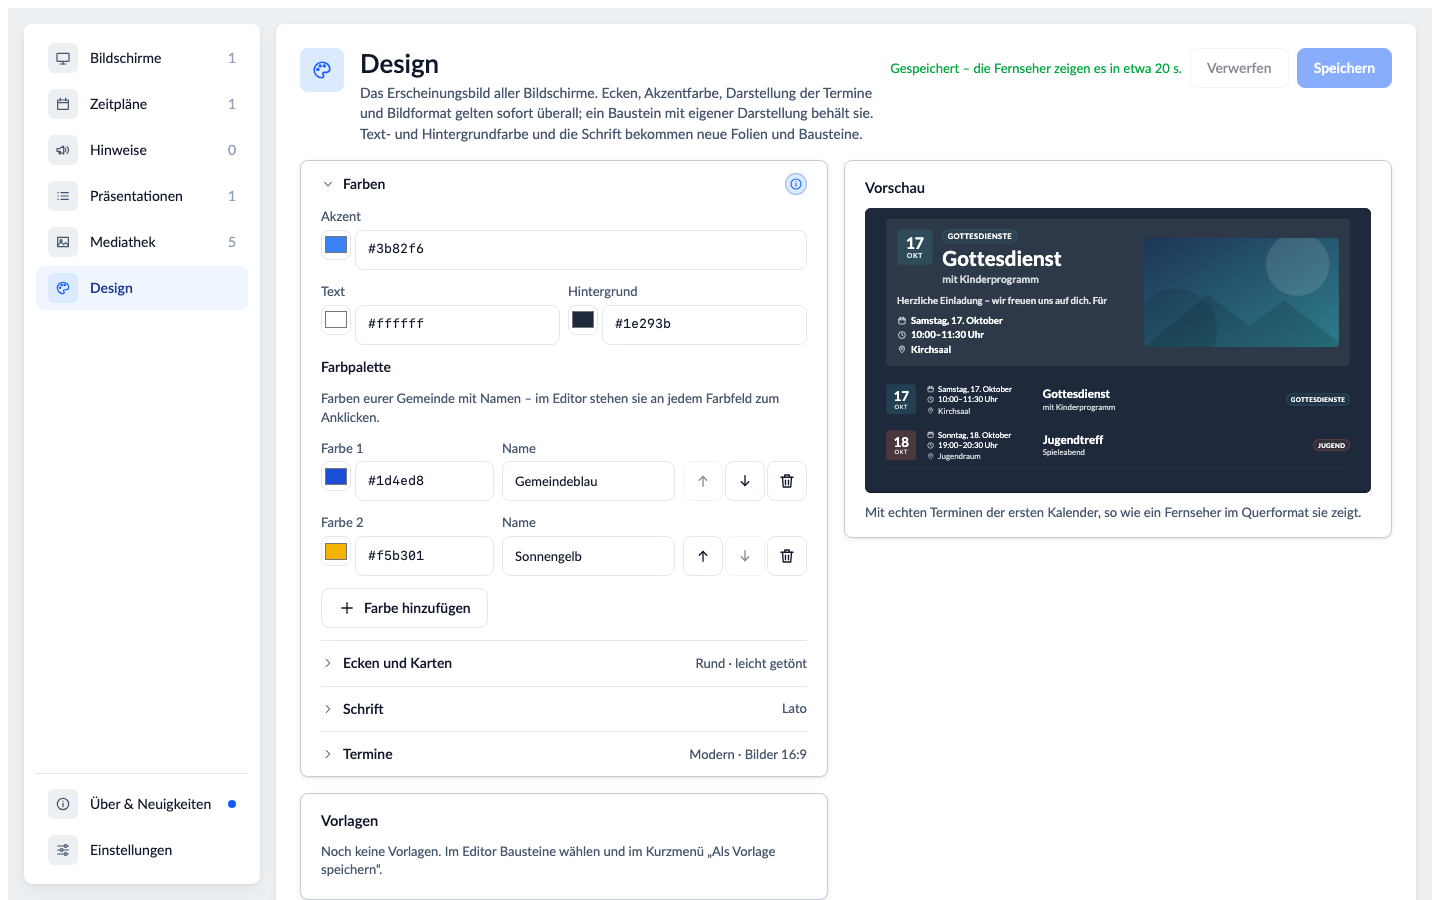
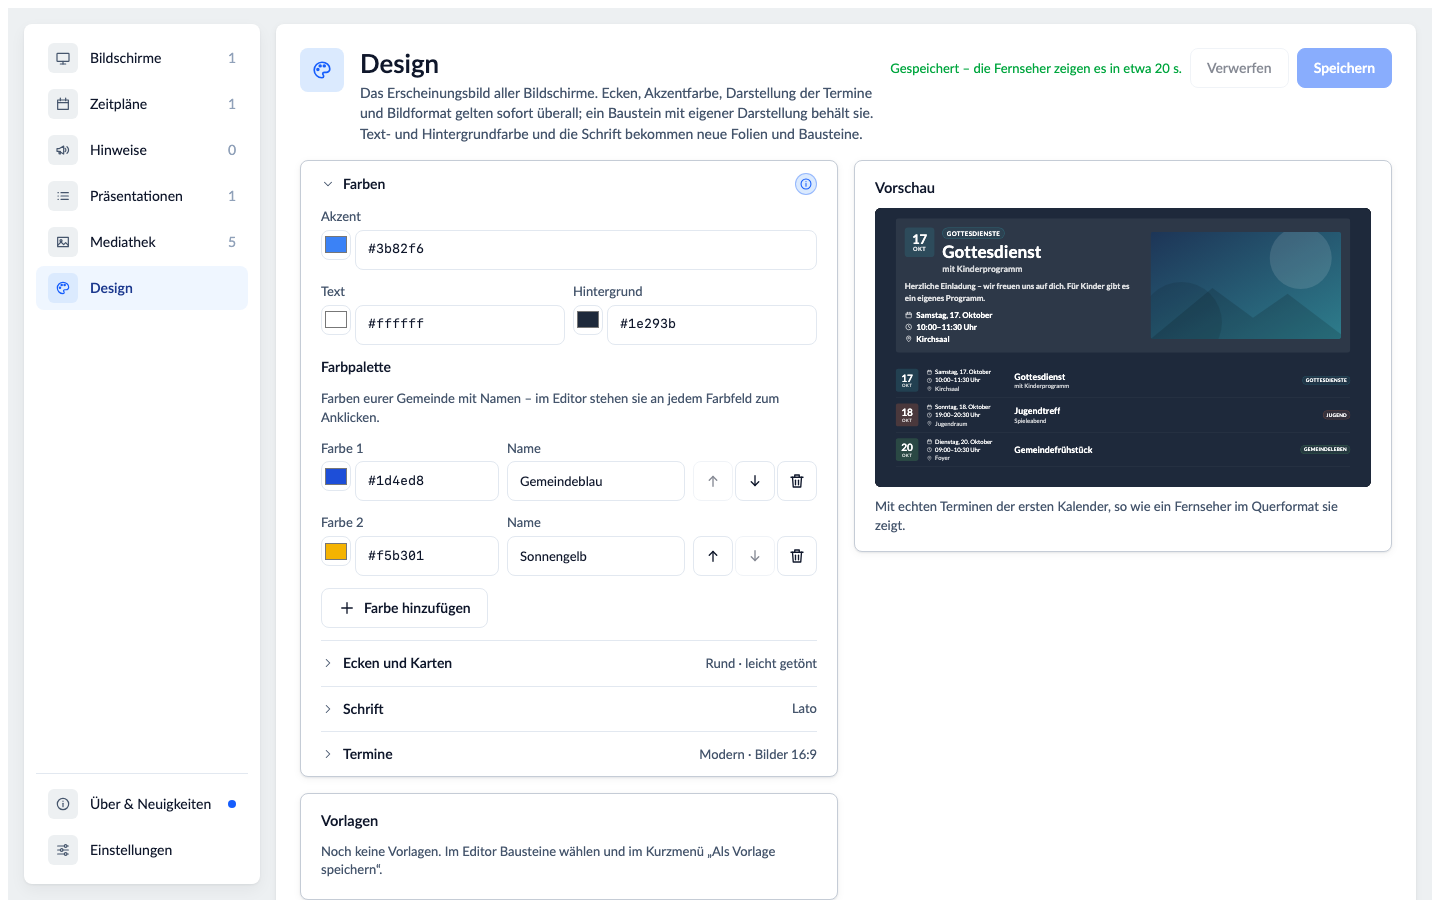
Seite Design halb/halb, kleinere Schrift in der Vorschau, ein Klappmenue offen (Punkt 89)
Rueckmeldung des Nutzers zum lokalen ZIP: Die Vorschau war zu klein und
schnitt Text ab, und mehrere offene Klappmenues kosteten den Ueberblick.
Einstellungen und Vorschau teilen sich die Seite jetzt zur Haelfte; die
Bausteine der Vorschau haben kleinere Schrift, damit Karte und Liste ganz
erscheinen. Klappmenues mit gleicher Gruppe oeffnen einzeln (natives name
von details). Fuer den Inspektor geplant als Punkt 91.

diff --git a/src/views/DesignView.vue b/src/views/DesignView.vue
@@ -158,14 +158,14 @@ const previewSlide = computed<SlideDoc>(() => {
     const ids = calendars.value.slice(0, 3).map((c) => c.id);
     const slide = createSlide('Vorschau', theme.value);
     const next = createBlock('next-appointment', STAGE, ids, theme.value) as Extract<Block, { type: 'next-appointment' }>;
-    const list = createBlock('appointment-list', STAGE, ids, theme.value);
+    const list = createBlock('appointment-list', STAGE, ids, theme.value) as Extract<Block, { type: 'appointment-list' }>;
     slide.blocks = [
         // Fixed ids: the blocks stay mounted while the look changes.
-        // The preview shows the look, not the size: at the default 64 px a long title takes three lines beside
-        // the image, and the card would crowd out the list (seen 2026-09-28). At 52 px title, subtitle, day
-        // and time fit the card with room to spare.
-        { ...next, id: 'preview-next', x: 80, y: 40, width: 1760, height: 560, style: { ...next.style, fontSize: 52 } },
-        { ...list, id: 'preview-list', x: 80, y: 640, width: 1760, height: 400, limit: 4 } as typeof list,
+        // The preview shows the look, not the size: at the default sizes a long title takes three lines beside
+        // the image, the description is cut and the list shows two of its four rows (seen 2026-09-28 and
+        // 2026-10-16). At 44 and 34 px the card shows its text whole and the list three rows.
+        { ...next, id: 'preview-next', x: 80, y: 40, width: 1760, height: 520, style: { ...next.style, fontSize: 44 } },
+        { ...list, id: 'preview-list', x: 80, y: 600, width: 1760, height: 440, limit: 4, style: { ...list.style, fontSize: 34 } },
     ];
     return slide;
 });
@@ -280,7 +280,7 @@ function observe(el: unknown): void {
         <div v-else class="layout">
             <div class="column">
                 <div class="d-card settings">
-                    <InspectorSection id="design-colors" :title="t.design.colors.title" :summary="paletteSummary(look.palette)">
+                    <InspectorSection id="design-colors" group="design" :title="t.design.colors.title" :summary="paletteSummary(look.palette)">
                         <template #summary-extra>
                             <span v-for="color in [look.accent, look.text, look.background]" :key="color" class="swatch" :style="{ background: color }" />
                         </template>
@@ -357,7 +357,7 @@ function observe(el: unknown): void {
                         <p v-if="look.palette.length >= PALETTE_MAX" class="hint">{{ t.design.palette.max(PALETTE_MAX) }}</p>
                     </InspectorSection>
 
-                    <InspectorSection id="design-surfaces" :title="t.design.surfaces.title" :summary="surfacesSummary(look)">
+                    <InspectorSection id="design-surfaces" group="design" :title="t.design.surfaces.title" :summary="surfacesSummary(look)">
                         <template #info>
                             <p>{{ t.design.corners.hint }}</p>
                             <p>{{ t.design.cards.hint }}</p>
@@ -397,7 +397,7 @@ function observe(el: unknown): void {
                         </template>
                     </InspectorSection>
 
-                    <InspectorSection id="design-font" :title="t.design.font.title" :summary="fontSummary(look)">
+                    <InspectorSection id="design-font" group="design" :title="t.design.font.title" :summary="fontSummary(look)">
                         <template #info>
                             <p>{{ t.design.font.hint }}</p>
                         </template>
@@ -405,7 +405,7 @@ function observe(el: unknown): void {
                         <FontField :model-value="look.font" :label="t.inspector.fontFamily" testid="theme-font" @update:model-value="look.font = $event" />
                     </InspectorSection>
 
-                    <InspectorSection id="design-appointments" :title="t.design.appointments.title" :summary="appointmentsSummary(look)">
+                    <InspectorSection id="design-appointments" group="design" :title="t.design.appointments.title" :summary="appointmentsSummary(look)">
                         <template #info>
                             <p>{{ t.design.images.hint }}</p>
                         </template>
@@ -483,13 +483,13 @@ function observe(el: unknown): void {
     font-size: var(--d-size-sm);
 }
 /*
- * Two boxes side by side: the settings one below the other, and the
- * preview. Both stop at a width where fields and stage are still easy to
- * take in – wider only makes them bigger, not clearer (2026-09-25).
+ * Half and half: the settings on the left, the preview on the right, both
+ * as wide as the page allows – a larger preview is a readable one
+ * (Nutzer, 2026-10-16).
  */
 .layout {
     display: grid;
-    grid-template-columns: minmax(320px, 640px) minmax(340px, 640px);
+    grid-template-columns: minmax(0, 1fr) minmax(0, 1fr);
     gap: 16px;
     align-items: start;
 }
@@ -613,7 +613,7 @@ h3 {
     border-radius: var(--d-radius);
     background: var(--d-text);
 }
-/* Narrow: the preview on top, no wider than beside the cards. */
+/* Narrow: the preview on top. */
 @media (max-width: 60rem) {
     .layout {
         grid-template-columns: minmax(0, 1fr);
@@ -622,7 +622,6 @@ h3 {
         position: static;
         order: -1;
         width: 100%;
-        max-width: 640px;
         box-sizing: border-box;
     }
 }

diff --git a/src/designer/InspectorSection.vue b/src/designer/InspectorSection.vue
@@ -3,7 +3,8 @@
  * A foldable part of the inspector (Plan.md 47) on a native `<details>`: the title, and while it
  * is folded a short summary of what is set inside. Open or closed is remembered per section id,
  * so a section opened once stays open for the next block, too (a section never touched is closed, unless `defaultOpen`). An `info` slot puts an (i) at the end of the
- * title line while the section is open; its text stands at the top of the body. In the short menu only the body shows, and
+ * title line while the section is open; its text stands at the top of the body. Sections sharing a `group` open one at a time
+ * (the native `name` of `<details>`): opening one folds the other, so the page keeps its overview (Plan.md 89). In the short menu only the body shows, and
  * so it does in the open field of a chip there (without the explanation: a fold would only be one more click, an (i) a row of its own).
  */
 import { computed, inject, ref, unref } from 'vue';
@@ -12,7 +13,7 @@ import InfoHint from './InfoHint.vue';
 import { IN_QUICK_FIELD, INSPECTOR_MODE } from './inspector/mode';
 import { sectionState } from './section-state';
 
-const props = defineProps<{ id: string; title: string; summary?: string; defaultOpen?: boolean }>();
+const props = defineProps<{ id: string; title: string; summary?: string; defaultOpen?: boolean; group?: string }>();
 const slots = defineSlots<{ default(): unknown; 'summary-extra'?(): unknown; info?(): unknown }>();
 const infoOpen = ref(false);
 /** In the short menu (Plan.md 79, B2) a section has no head: its fields stand there on their own. */
@@ -31,7 +32,7 @@ function onToggle(id: string, event: Event): void {
     <div v-else-if="inChip" class="body">
         <slot />
     </div>
-    <details v-else class="section" :open="isOpen" :data-testid="`section-${id}`" @toggle="onToggle(id, $event)">
+    <details v-else class="section" :name="group" :open="isOpen" :data-testid="`section-${id}`" @toggle="onToggle(id, $event)">
         <summary :data-testid="`section-${id}-toggle`">
             <Icon name="chevron-down" :size="14" class="chevron" />
             <span class="title">{{ title }}</span>

diff --git a/e2e/editor.spec.ts b/e2e/editor.spec.ts
@@ -1337,16 +1337,17 @@ test('the design page sets the look of all screens: corners, large appointments,
     await expect(preview.getByTestId('list-card')).toHaveCount(0); // native: plain rows
     await expect(page.getByTestId('theme-save')).toBeDisabled();
 
+    // One section open at a time (Plan.md 89): each field right after its section.
     await openSection(page, 'design-appointments');
-    await openSection(page, 'design-surfaces');
-    await openSection(page, 'design-colors');
     await page.getByTestId('appointments-large').check();
+    await page.getByTestId('theme-image-ratio').selectOption('1:1');
+    await openSection(page, 'design-surfaces');
     await page.getByTestId('corners-square').check();
     // The preview shows the first calendars of the instance: which of the four appointments that is, is theirs to say.
     await expect(preview.getByTestId('list-card').first()).toBeVisible();
     await expect(preview.getByTestId('next-card')).toBeVisible();
     await expect(preview.locator('.slide')).toHaveAttribute('style', /--isd-radius: 0/);
-    await page.getByTestId('theme-image-ratio').selectOption('1:1');
+    await openSection(page, 'design-colors');
     await page.getByTestId('theme-accent').fill('#e11d48');
     await page.getByTestId('theme-accent').blur();
     await page.getByTestId('theme-save').click();
@@ -1378,8 +1379,8 @@ test('the design page sets the card surface (Plan.md 74)', async ({ page, browse
     await page.getByTestId('sidebar-design').click();
     await expect(page.getByTestId('design-heading')).toBeVisible();
     await openSection(page, 'design-appointments');
-    await openSection(page, 'design-surfaces');
     await page.getByTestId('appointments-large').check();
+    await openSection(page, 'design-surfaces');
     const card = page.getByTestId('theme-preview').getByTestId('next-card');
     await expect(card).toBeVisible();
     const surface = () => card.evaluate((el) => getComputedStyle(el).backgroundColor);

diff --git a/e2e/design.spec.ts b/e2e/design.spec.ts
@@ -27,3 +27,14 @@ test('a change shows in the summary once the section is folded again (Plan.md 89
     await expect(page.getByTestId('section-design-surfaces')).not.toHaveAttribute('open', '');
     await expect(page.getByTestId('section-design-surfaces-toggle')).toContainText('Eckig · leicht getönt');
 });
+
+test('opening a section folds the one open before, so the page keeps its overview (Plan.md 89)', async ({ page }) => {
+    await page.goto('design');
+    await openSection(page, 'design-colors');
+    await openSection(page, 'design-surfaces');
+    await expect(page.getByTestId('section-design-colors')).not.toHaveAttribute('open', '');
+    await expect(page.getByTestId('section-design-surfaces')).toHaveAttribute('open', '');
+    await page.reload();
+    await expect(page.getByTestId('section-design-surfaces')).toHaveAttribute('open', '');
+    await expect(page.getByTestId('section-design-colors')).not.toHaveAttribute('open', '');
+});

diff --git a/e2e/docs-screenshots.spec.ts b/e2e/docs-screenshots.spec.ts
@@ -393,8 +393,7 @@ test('pictures for the documentation', async ({ page, baseURL }) => {
     }
     await page.getByTestId('theme-save').click();
     await expect(page.getByTestId('theme-saved')).toBeVisible();
-    // Only the colours stay open: the palette shows, the other three stand folded with their summary (Plan.md 89).
-    await page.getByTestId('section-design-appointments-toggle').click();
+    // Only the colours stand open – opening them folded the appointments: the palette shows, the other three their summary (Plan.md 89).
     await shoot(page, 'design');
 
     // A second screen, upright, with a countdown and a picture from the media library.

diff --git a/Plan.md b/Plan.md
@@ -14,11 +14,12 @@ Ein ChurchTools Custom Module (CCM), mit dem angemeldete ChurchTools-Anwender In
 2. **Wiederverwendbare Designs** (Punkt 87) – Idee von Bernhard (2026-10-15). **Paket A, verknüpfte Vorlagen (Schema 1.41), ist mit `v0.27.0` veröffentlicht, Paket B, die Aufteilung der Folie samt „Im Bereich fest“ und Einrasten beim Ziehen (Schema 1.42), mit `v0.28.0` (beide 2026-10-16).** Die Stile für Listen-Bausteine warten auf Bernhards Antwort, was er mit „Sammlungen“ meint.
 3. **Der Designer für alle** (Punkt 79) – gestalten ohne Technikhintergrund, am Handy wie am Rechner. Reihenfolge: **B1** Begriffe (Folie, Präsentation, Bildschirm) und eine Textdatei → **A** Ordnung auf der Fläche (Bauplan fertig) → **B2** ein Wort, ein Bedienelement je Sache → **B3** neuer Look → **C** Kurzmenü, Text auf der Fläche, Bedienung mit dem Finger → **E** Entwurf und Veröffentlichen → **D** mehrere Bausteine → **F** Kreativ. 17 Fragen mit dem Nutzer geklärt am 2026-10-08/09; offen sind die Testpersonen (Seitenrand: später). **Seit dem 2026-10-14 läuft der neue Designer auf der Produktivinstanz (`v0.19.1`)** – damit sind die Abnahme am Tablet und die Testpersonen dran.
    **Stand 2026-10-10:** **B1 bis F3 und der Baustein „Social Media“ (Punkt 80) sind gebaut und mit `v0.19.0` veröffentlicht.** Der Nutzer prüft per lokalem ZIP auf der Testinstanz. **C und E sind vom Nutzer abgenommen (2026-10-10), D bis auf die Rückmeldung unten.** Die Doku (`docs/Funktionen.md`, `docs/Onboarding.md`, `README.md`, alle Bilder samt `mehrere.png`) ist für C, D und E nachgezogen; die Bilder-Strecke lief seit C rot (eine eingefrorene Uhr ließ Vue den Klick auf einen Baustein verwerfen) und läuft wieder. **Rückmeldung zu D** *(Nutzer am Tablet, 2026-10-10; gebaut am selben Tag)*: (1) Die Knöpfe unter „Anordnen“ stießen an den Rand – jetzt eine Zeile je Achse, drei Kanten und daneben Verteilen. (2) Eine gewählte Gruppe richtete beim Ausrichten ihre Mitglieder gegeneinander aus – jetzt zählt sie wie ein Baustein: allein richtet sie sich an der Folie aus, mit anderen bewegt sie sich als Einheit, beim Verteilen zählt sie einfach (`unitsOf` in `arrange.ts`). (3) Am Tablet passte die Höhe nicht, der Inspektor musste gescrollt werden – der Editor nimmt jetzt `100dvh` statt `100vh`; das reichte nicht (Nutzer, 2026-10-10): Am iPad setzt ChurchTools nach dem Modul einen 56 px hohen App-Banner über die Kopfleiste, den die Messung des Abstands nach oben nicht bemerkte (Befunde.md G57) – jetzt beobachtet sie jedes Kind von `<body>`. (4) Die Kacheln der Mediathek-Seite haben ein „…“ mit „Löschen“ (Rest aus B3). **D ist abgenommen** (Nutzer, 2026-10-10), zuletzt die Gruppen in den Ebenen (Teil 5 unter Punkt 79, D9). **F1, F2 und F3 sind gebaut** *(Nutzer, 2026-10-10: „F1–F3 jetzt“, statt erst nach dem Mergen)* – als Fortsetzung der Kette `designer-d` → `designer-f1` → `designer-f2` → `designer-f3`, Schema 1.30 bis 1.32; die Abnahme am Tablet steht aus (Drehgriff und Ausschnitt mit dem Finger sind nur mit der Maus geprüft), die Bilder der Doku zeigen F seit dem 2026-10-10 (neu `gestalten.png`). **F4** (Bewegung beim Einblenden) wartet auf die Messung am Pi nach P4. **Danach** *(Nutzer, 2026-10-10)*: Testpersonen für die Abnahme planen, sobald der neue Designer auf der Produktivinstanz läuft; der Seitenrand (D8) bleibt später. **Gemergt und veröffentlicht am 2026-10-10** (#80 bis #90, Versions-PR #91, Tag `v0.19.0`); die Branch-Kette ist durch. Die alten Zweige `designer-*` und `merge/designer-*` auf GitHub sind übrig.
-4. **Ordnung auf der Seite „Design“** (Punkt 89) – zusammenhängende Einstellungen gruppieren und trennen wie im Inspektor. **Gebaut am 2026-10-16 (PR #141, Zweig `design-ordnung`), die Abnahme durch den Nutzer steht aus.** Nebenbei aufgefallen: `editor.spec.ts:1061` ist in WebKit rot (`save-status` nicht gefunden), auch ohne diese Änderung.
-5. **Erst messen, dann planen** (Opus): **Videos ohne Netz** (Punkt 46.7 – ob der Service Worker ein Video samt Bereichsanfragen aus dem Cache liefern kann) und **eine eigene hochgeladene Schrift** (ob die Download-Adresse einer Schriftdatei unter der CSP trägt; bräuchte ein Schema-Feld).
-6. **Einführung in den Editor** (Punkt 81) – festgehalten am 2026-10-14, nicht beauftragt; drei Fragen an den Nutzer offen (Start von selbst oder als Karte, Handy, vor oder nach den Testpersonen).
-7. **Vorschau in einem zweiten Fenster** (Punkt 56) – skizziert; geparkt (Nutzer, 2026-10-10).
-8. **Teststrategie prüfen – keine doppelten Prüfungen** (Punkt 60) – vom Nutzer gewünscht am 2026-10-02; eine Durchsicht, später (Nutzer, 2026-10-10).
+4. **Ordnung auf der Seite „Design“** (Punkt 89) – zusammenhängende Einstellungen gruppieren und trennen wie im Inspektor. **Gebaut am 2026-10-16 (PR #141, Zweig `design-ordnung`), samt der ersten Rückmeldung (halb/halb, kleinere Schrift in der Vorschau, nur ein Klappmenü offen); die Abnahme durch den Nutzer steht aus.** Nebenbei aufgefallen: `editor.spec.ts:1061` ist in WebKit rot (`save-status` nicht gefunden), auch ohne diese Änderung.
+5. **Im Inspektor immer nur ein Klappmenü offen** (Punkt 91) – gewünscht am 2026-10-16, geplant; zwei Fragen an den Nutzer offen (Ausnahme „Bausteine dieser Folie“, „Genaue Maße“ in der Gruppe).
+6. **Erst messen, dann planen** (Opus): **Videos ohne Netz** (Punkt 46.7 – ob der Service Worker ein Video samt Bereichsanfragen aus dem Cache liefern kann) und **eine eigene hochgeladene Schrift** (ob die Download-Adresse einer Schriftdatei unter der CSP trägt; bräuchte ein Schema-Feld).
+7. **Einführung in den Editor** (Punkt 81) – festgehalten am 2026-10-14, nicht beauftragt; drei Fragen an den Nutzer offen (Start von selbst oder als Karte, Handy, vor oder nach den Testpersonen).
+8. **Vorschau in einem zweiten Fenster** (Punkt 56) – skizziert; geparkt (Nutzer, 2026-10-10).
+9. **Teststrategie prüfen – keine doppelten Prüfungen** (Punkt 60) – vom Nutzer gewünscht am 2026-10-02; eine Durchsicht, später (Nutzer, 2026-10-10).
 
 **Kleine Reste, kein Auftrag, bis jemand sie wählt** *(durchgesehen mit dem Nutzer am 2026-10-10: später; „Rechte aktualisieren“ echt ausprobiert, ohne Auffälligkeiten)*:
 
@@ -660,6 +661,15 @@ Hier stehen nur Punkte, die noch nicht veröffentlicht sind, mit vollem Text. Di
     - **Tests:** Unit `design-summary.test.ts` (je Gruppe; Palette leer, eine, mehrere Farben; eigene Kartenfarbe mit Deckkraft; Bildformat „Frei“). e2e: neu in `palette.spec.ts` oder einer neuen `design.spec.ts` – zum Start alle vier zu mit Zusammenfassung, Vorlagen-Karte ohne Aufklappen sichtbar, eine Änderung erscheint in der Zusammenfassung nach dem Zuklappen. Bestehende Tests öffnen vorher ihr Klappmenü mit `openSection` aus `e2e/helpers.ts`: `palette.spec.ts`, `editor.spec.ts` (um Zeile 1340, 1377, 1410), `calendar-colors.spec.ts:48`, `docs-screenshots.spec.ts:383`.
     - **Mitziehen:** `docs/Funktionen.md`, Abschnitt „Design“ (ein Satz zu den vier Gruppen und der eigenen Karte für Vorlagen); das Bild `design.png` mit geöffneten „Farben“, damit die Palette zu sehen ist.
     - **Fertig,** wenn Typprüfung, Lint und Unit-Tests grün sind, die genannten e2e-Tests in Chromium und WebKit grün laufen und `npm run docs:screenshots` das neue Bild erzeugt.
+    - **Rückmeldung nach dem lokalen ZIP** *(Nutzer, 2026-10-16; gebaut am selben Tag auf demselben Zweig)*: (1) **Halb/halb** – Einstellungen und Vorschau je eine halbe Seite, ohne Obergrenze von 640 px; am Handy steht die Vorschau weiter oben, jetzt in voller Breite. (2) **Schrift der Vorschau kleiner,** damit nichts abgeschnitten wird: „Nächster Termin“ 44 statt 52 px, die Terminliste 34 statt 44 px – die Karte zeigt ihren Text ganz, die Liste drei Zeilen statt zwei. (3) **Immer nur ein Klappmenü offen:** Öffnet man eins, schließt sich das andere – über das native `name` von `<details>`, als Eigenschaft `group` an `InspectorSection`. Für den Inspektor geplant als Punkt 91.
+
+91. **Im Inspektor immer nur ein Klappmenü offen** *(Nutzer, 2026-10-16, nach der Seite „Design“: „Klappt man ein Menü auf, geht ein anderes aufgeklapptes Menü zu. So verliert man weniger den Überblick. Können wir das für den Inspektor auch planen?“ – geplant, nicht beauftragt)*. Die Seite „Design“ tut das seit Punkt 89 (`group="design"` an `InspectorSection`, das native `name` von `<details>`; Chrome ab 120, Safari ab 17.2, ältere Browser öffnen wie bisher mehrere).
+    - **Zuschnitt (Vorschlag Opus).** Alle Klappmenüs des Inspektors bilden eine Gruppe – auch die der Folie ohne Auswahl und die der Vorlage. Statt die rund 40 Stellen einzeln anzufassen, gibt `Inspector.vue` den Gruppennamen per `provide` vor, `InspectorSection` nimmt `group` als Eigenschaft oder sonst den vorgegebenen Namen. **Ausgenommen ist „Bausteine dieser Folie“** (`slide-blocks`): eine Liste zum Auswählen, keine Einstellung; sie bleibt offen, wenn man daneben ein Klappmenü öffnet. Gemerkt wird weiter je Klappmenü (`section-state.ts`); offen ist danach höchstens eins.
+    - **Was sich ändert:** Wer zwischen zwei Klappmenüs hin und her springt (etwa „Darstellung“ und „Schrift“), muss das erste wieder öffnen. Das ist der Preis für den Überblick; am Handy (Kurzmenü, Chips) ändert sich nichts, dort gibt es keine Klappmenüs.
+    - **Offen (Nutzer):** Gilt die Ausnahme für „Bausteine dieser Folie“ so? Und soll „Genaue Maße“ mit in die Gruppe, obwohl man es oft neben „Darstellung“ braucht? *(Opus empfiehlt: ja, mit in die Gruppe – eine Regel ohne zweite Ausnahme.)*
+    - **Tests:** Rund 130 Aufrufe von `openSection` in 19 e2e-Dateien; jeder, der nach dem Öffnen eines zweiten Klappmenüs noch ein Feld des ersten bedient, muss umgestellt werden (das Feld direkt nach seinem Klappmenü bedienen). Neu: ein e2e „ein Klappmenü öffnen schließt das andere, ‚Bausteine dieser Folie‘ bleibt offen“; Unit für die Vorgabe per `provide`.
+    - **Mitziehen:** AGENTS.md, „Ordnung im Inspektor“ – Regel „Immer nur ein Klappmenü offen“; `docs/Funktionen.md` ein Satz.
+    - **Umfang:** klein im Code, groß in den Tests – ein Auftrag für den Umsetzer, ein eigenes Release.
 
 ### Verzeichnis der erledigten Punkte
 

diff --git a/docs/Funktionen.md b/docs/Funktionen.md
@@ -360,7 +360,7 @@ dabei aussparen („Nur unbenutzte löschen").
 
 Einmal für alle Bildschirme: Ecken, Akzentfarbe, Farben und Schrift für neue Bausteine, Termine schlicht oder als Karten,
 das Format der Bilder – mit Vorschau. Die Einstellungen stehen in vier Klappmenüs – **Farben**, **Ecken und Karten**,
-**Schrift** und **Termine** –, die zugeklappt in Worten sagen, was eingestellt ist. Dazu eine **Farbpalette**: bis zu zwölf Farben der Gemeinde mit Namen
+**Schrift** und **Termine** –, die zugeklappt in Worten sagen, was eingestellt ist; offen ist immer nur eins. Dazu eine **Farbpalette**: bis zu zwölf Farben der Gemeinde mit Namen
 („Gemeindeblau"), in einer Reihenfolge, die ihr selbst bestimmt. Der **Kartenhintergrund** – leicht getönt, ohne oder
 in einer eigenen Farbe mit Deckkraft – gilt für die Karten von „Nächster Termin" (Form „Modern"), „Beiträge" und
 „Gruppen" sowie die Tür-Anzeige der Raumbelegung. Unter **„Vorlagen"** stehen die [Vorlagen](#vorlagen) zum Bearbeiten,
